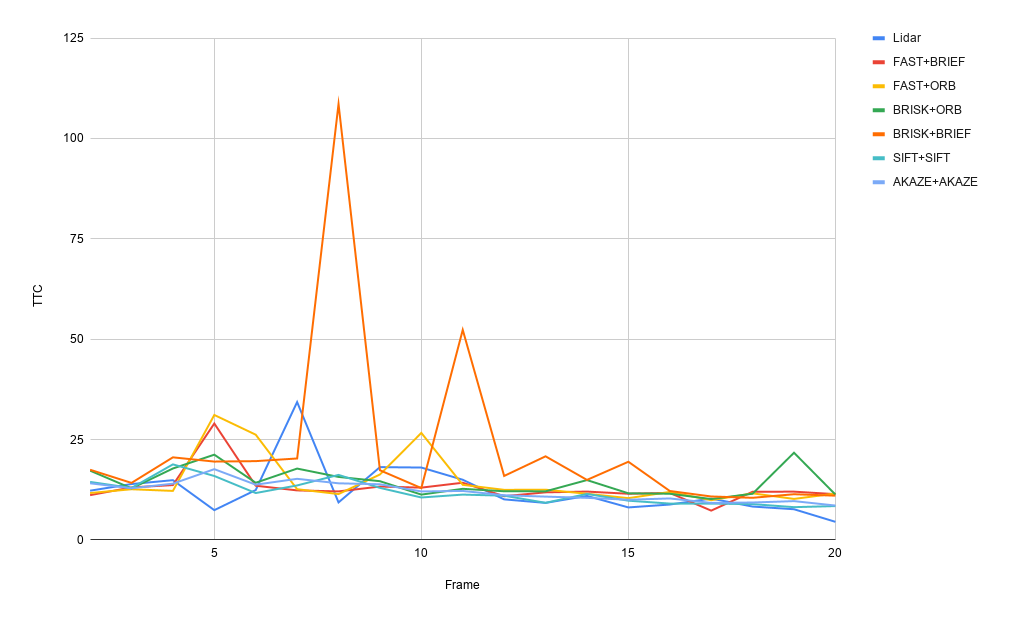
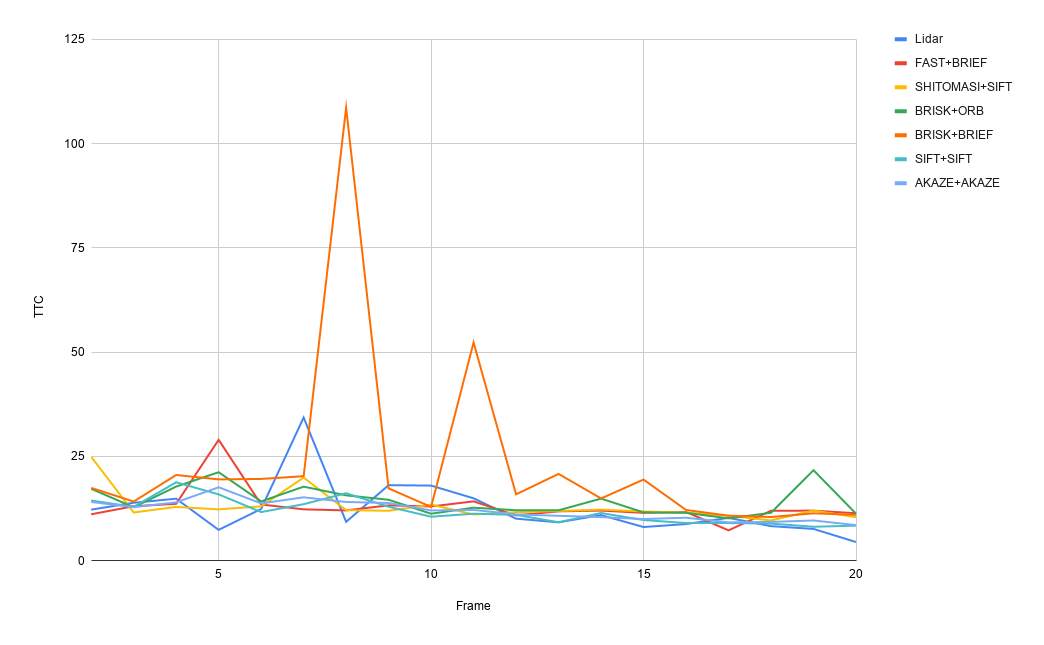
Update README

diff --git a/README.md b/README.md
@@ -9,6 +9,12 @@
 [ttc_lidar_008]: ./images/ttc_lidar_008.png "ttc_lidar_008"
 [ttc_camera_compare]: ./images/ttc_camera_compare.png "ttc_camera_compare"
 [ttc_compare]: ./images/ttc_compare.png "ttc_compare"
+[HARRIS]: ./images/HARRIS.png "HARRIS"
+[SHITOMASI]: ./images/SHITOMASI.png "SHITOMASI"
+[BRISK]: ./images/BRISK.png "BRISK"
+[FAST]: ./images/FAST.png "FAST"
+[ORB]: ./images/ORB.png "ORB"
+[SIFT]: ./images/SIFT.png "SIFT"
 
 
 # SFND 3D Object Tracking
@@ -92,7 +98,21 @@ Since the ttc-lidar value is calculated according to the formula `TTC = minXCurr
 ![ttc_lidar_008]
 
 ### FP.6 Performance Evaluation 2
-According to the spreadsheet and line graph, I think the top 2 stable ttc-camera are using *SIFT+SIFT* and *AKAZE+AKAZE* as detector and descriptor. Their result are most close to the ttc-lidar at the same frame, except frame_7 and frame_8. I think the gap are coming from lidar's outlier at that two frame. But considering the conclusion of mid-term project, I will choose *FAST+BRIEF* since it seems only has one ttc-camera result which is way off, and it consumes less time than *SIFT+SIFT* and *AKAZE+AKAZE*. If we can improve our method of filtering the outlier from keypoint match, I think *FAST+BRIEF* can be more stable. So my top 3 choose are:
+Below are the testing result of each detector and descriptor. Using HARRIS or ORB as detector basiclly can't work, too mutch keypoint matches are outlier. SIFT+ORB will run out of memory.
+
+![HARRIS]
+
+![SHITOMASI]
+
+![BRISK]
+
+![FAST]
+
+![ORB]
+
+![SIFT]
+
+I choose several combinations from above detector/descriptor which have good performance to compare together. According to the spreadsheet and line graph, I think the top 2 stable ttc-camera are using *SIFT+SIFT* and *AKAZE+AKAZE* as detector and descriptor. Their result are most close to the ttc-lidar at the same frame, except frame_7 and frame_8. I think the gap are coming from lidar's outlier at that two frame. But considering the conclusion of mid-term project, I will choose *FAST+BRIEF* since it seems only has one ttc-camera result which is way off, and it consumes less time than *SIFT+SIFT* and *AKAZE+AKAZE*. If we can improve our method of filtering the outlier from keypoint match, I think *FAST+BRIEF* can be more stable. So my top 3 choose are:
 1. FAST+BRIEF
 2. AKAZE+AKAZE
 3. SIFT+SIFT
